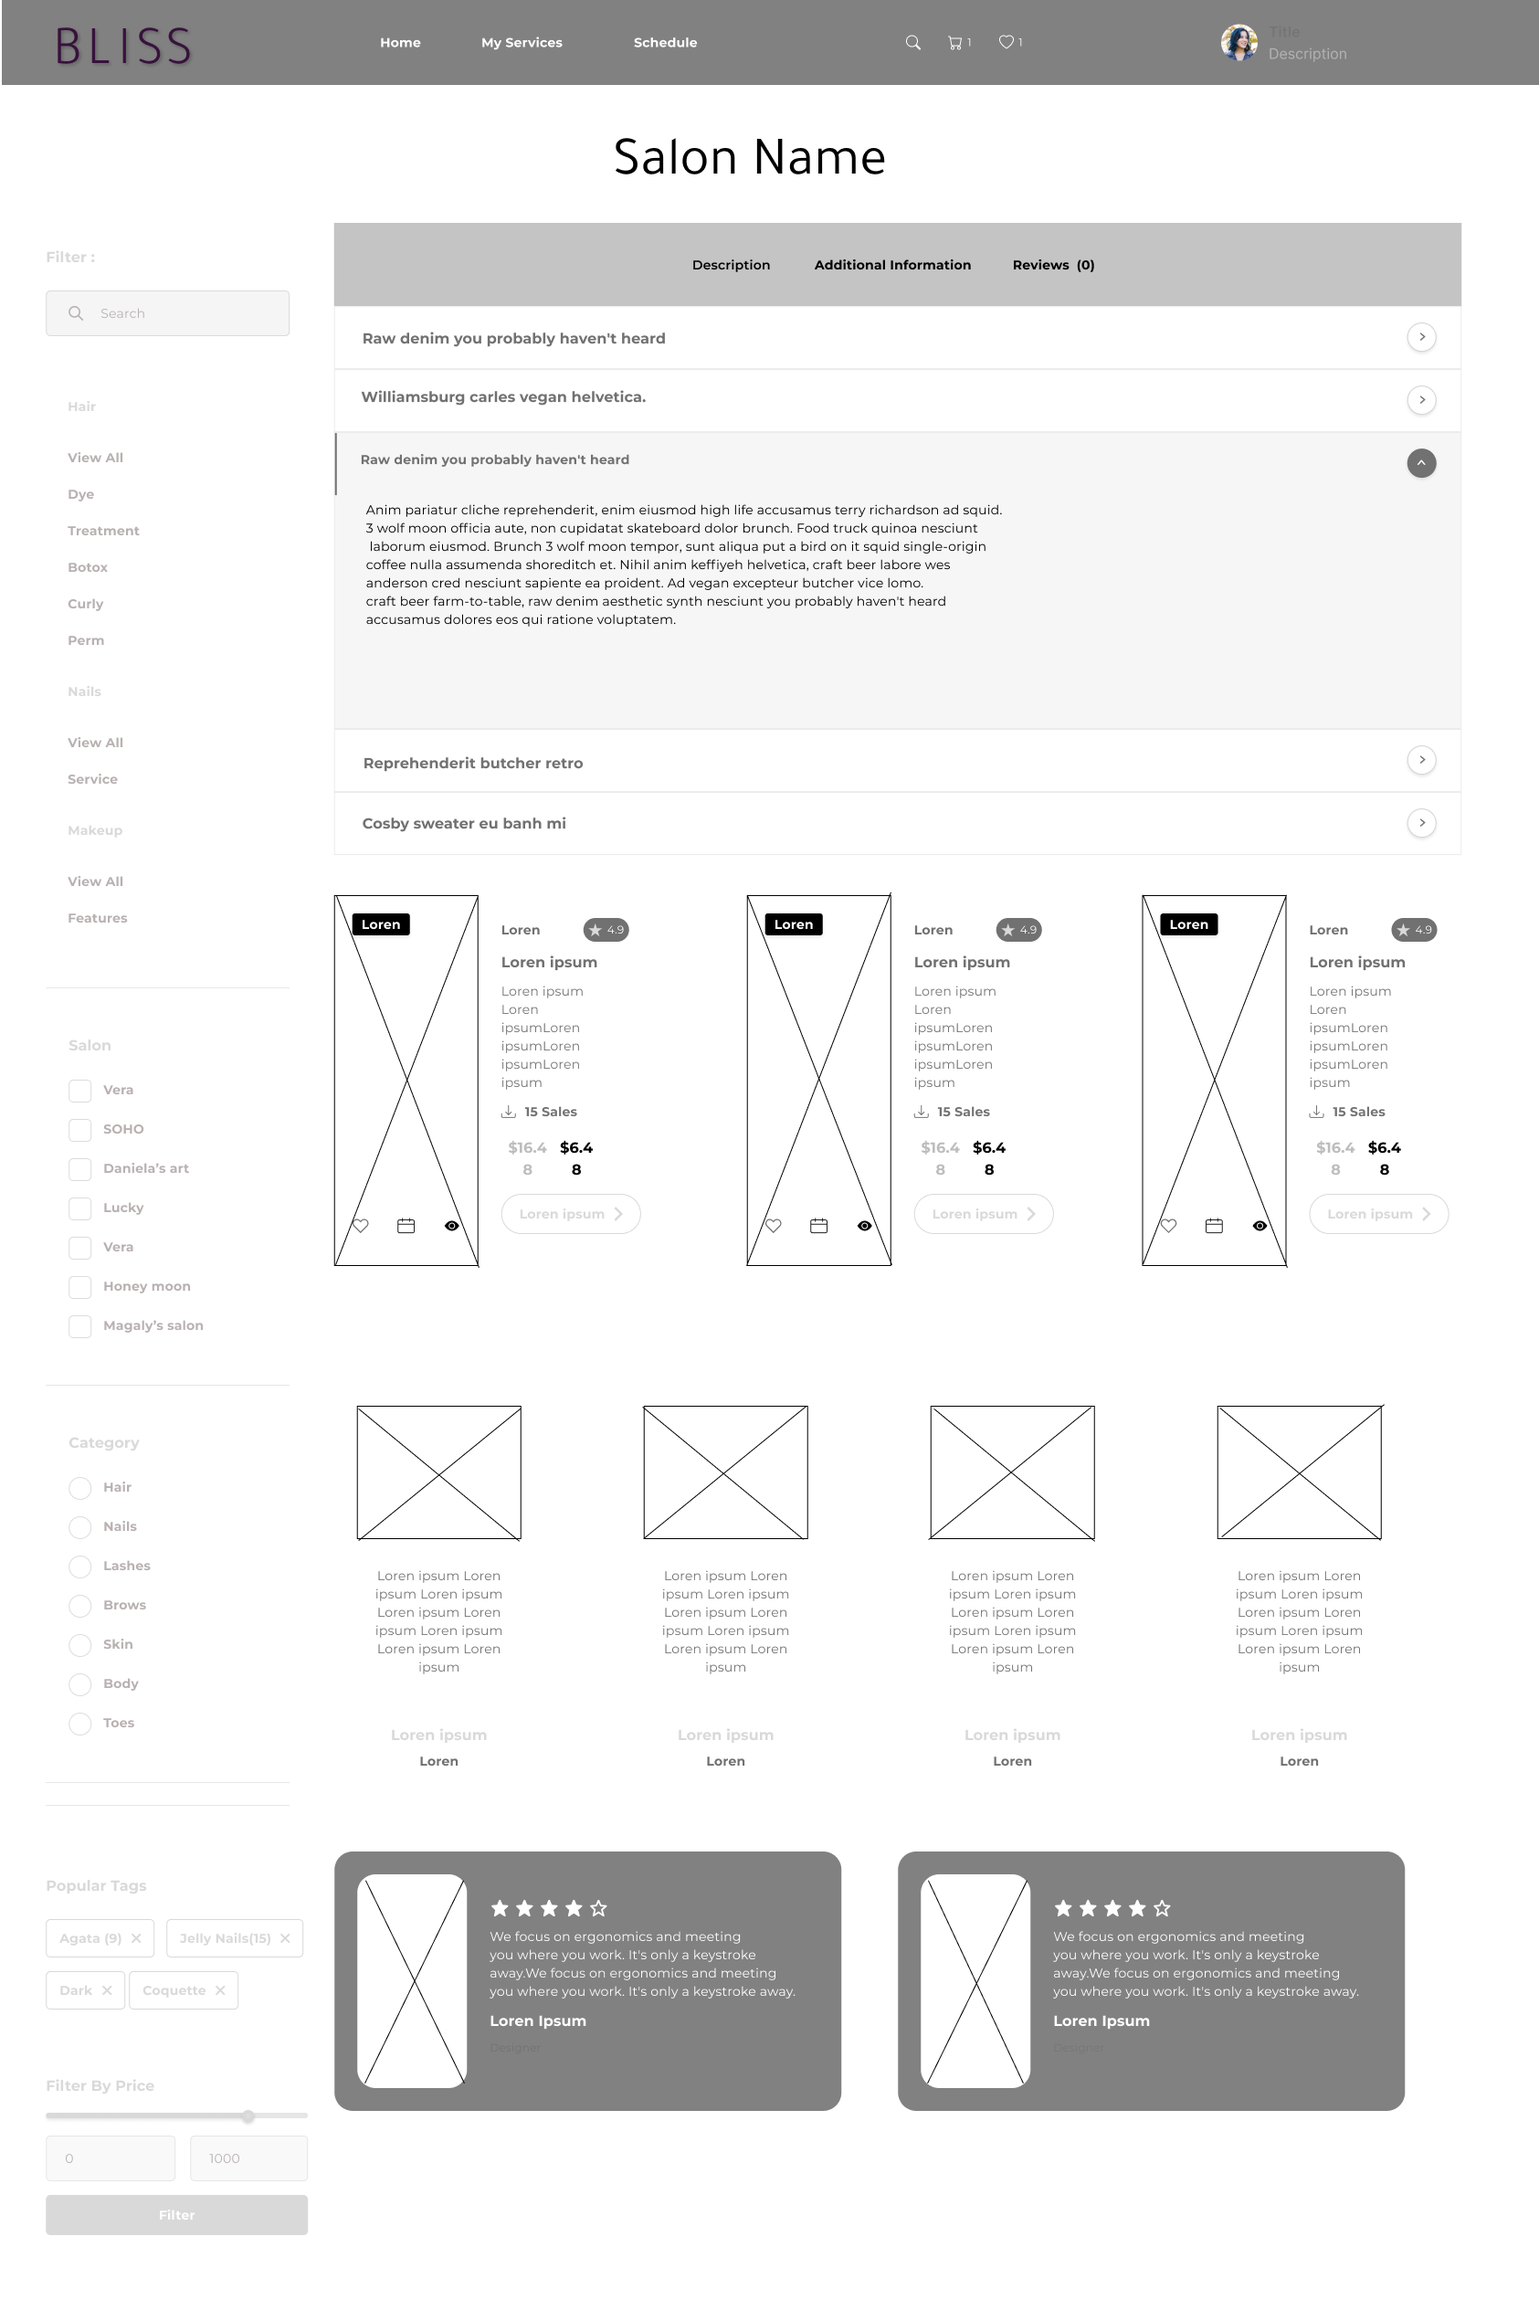
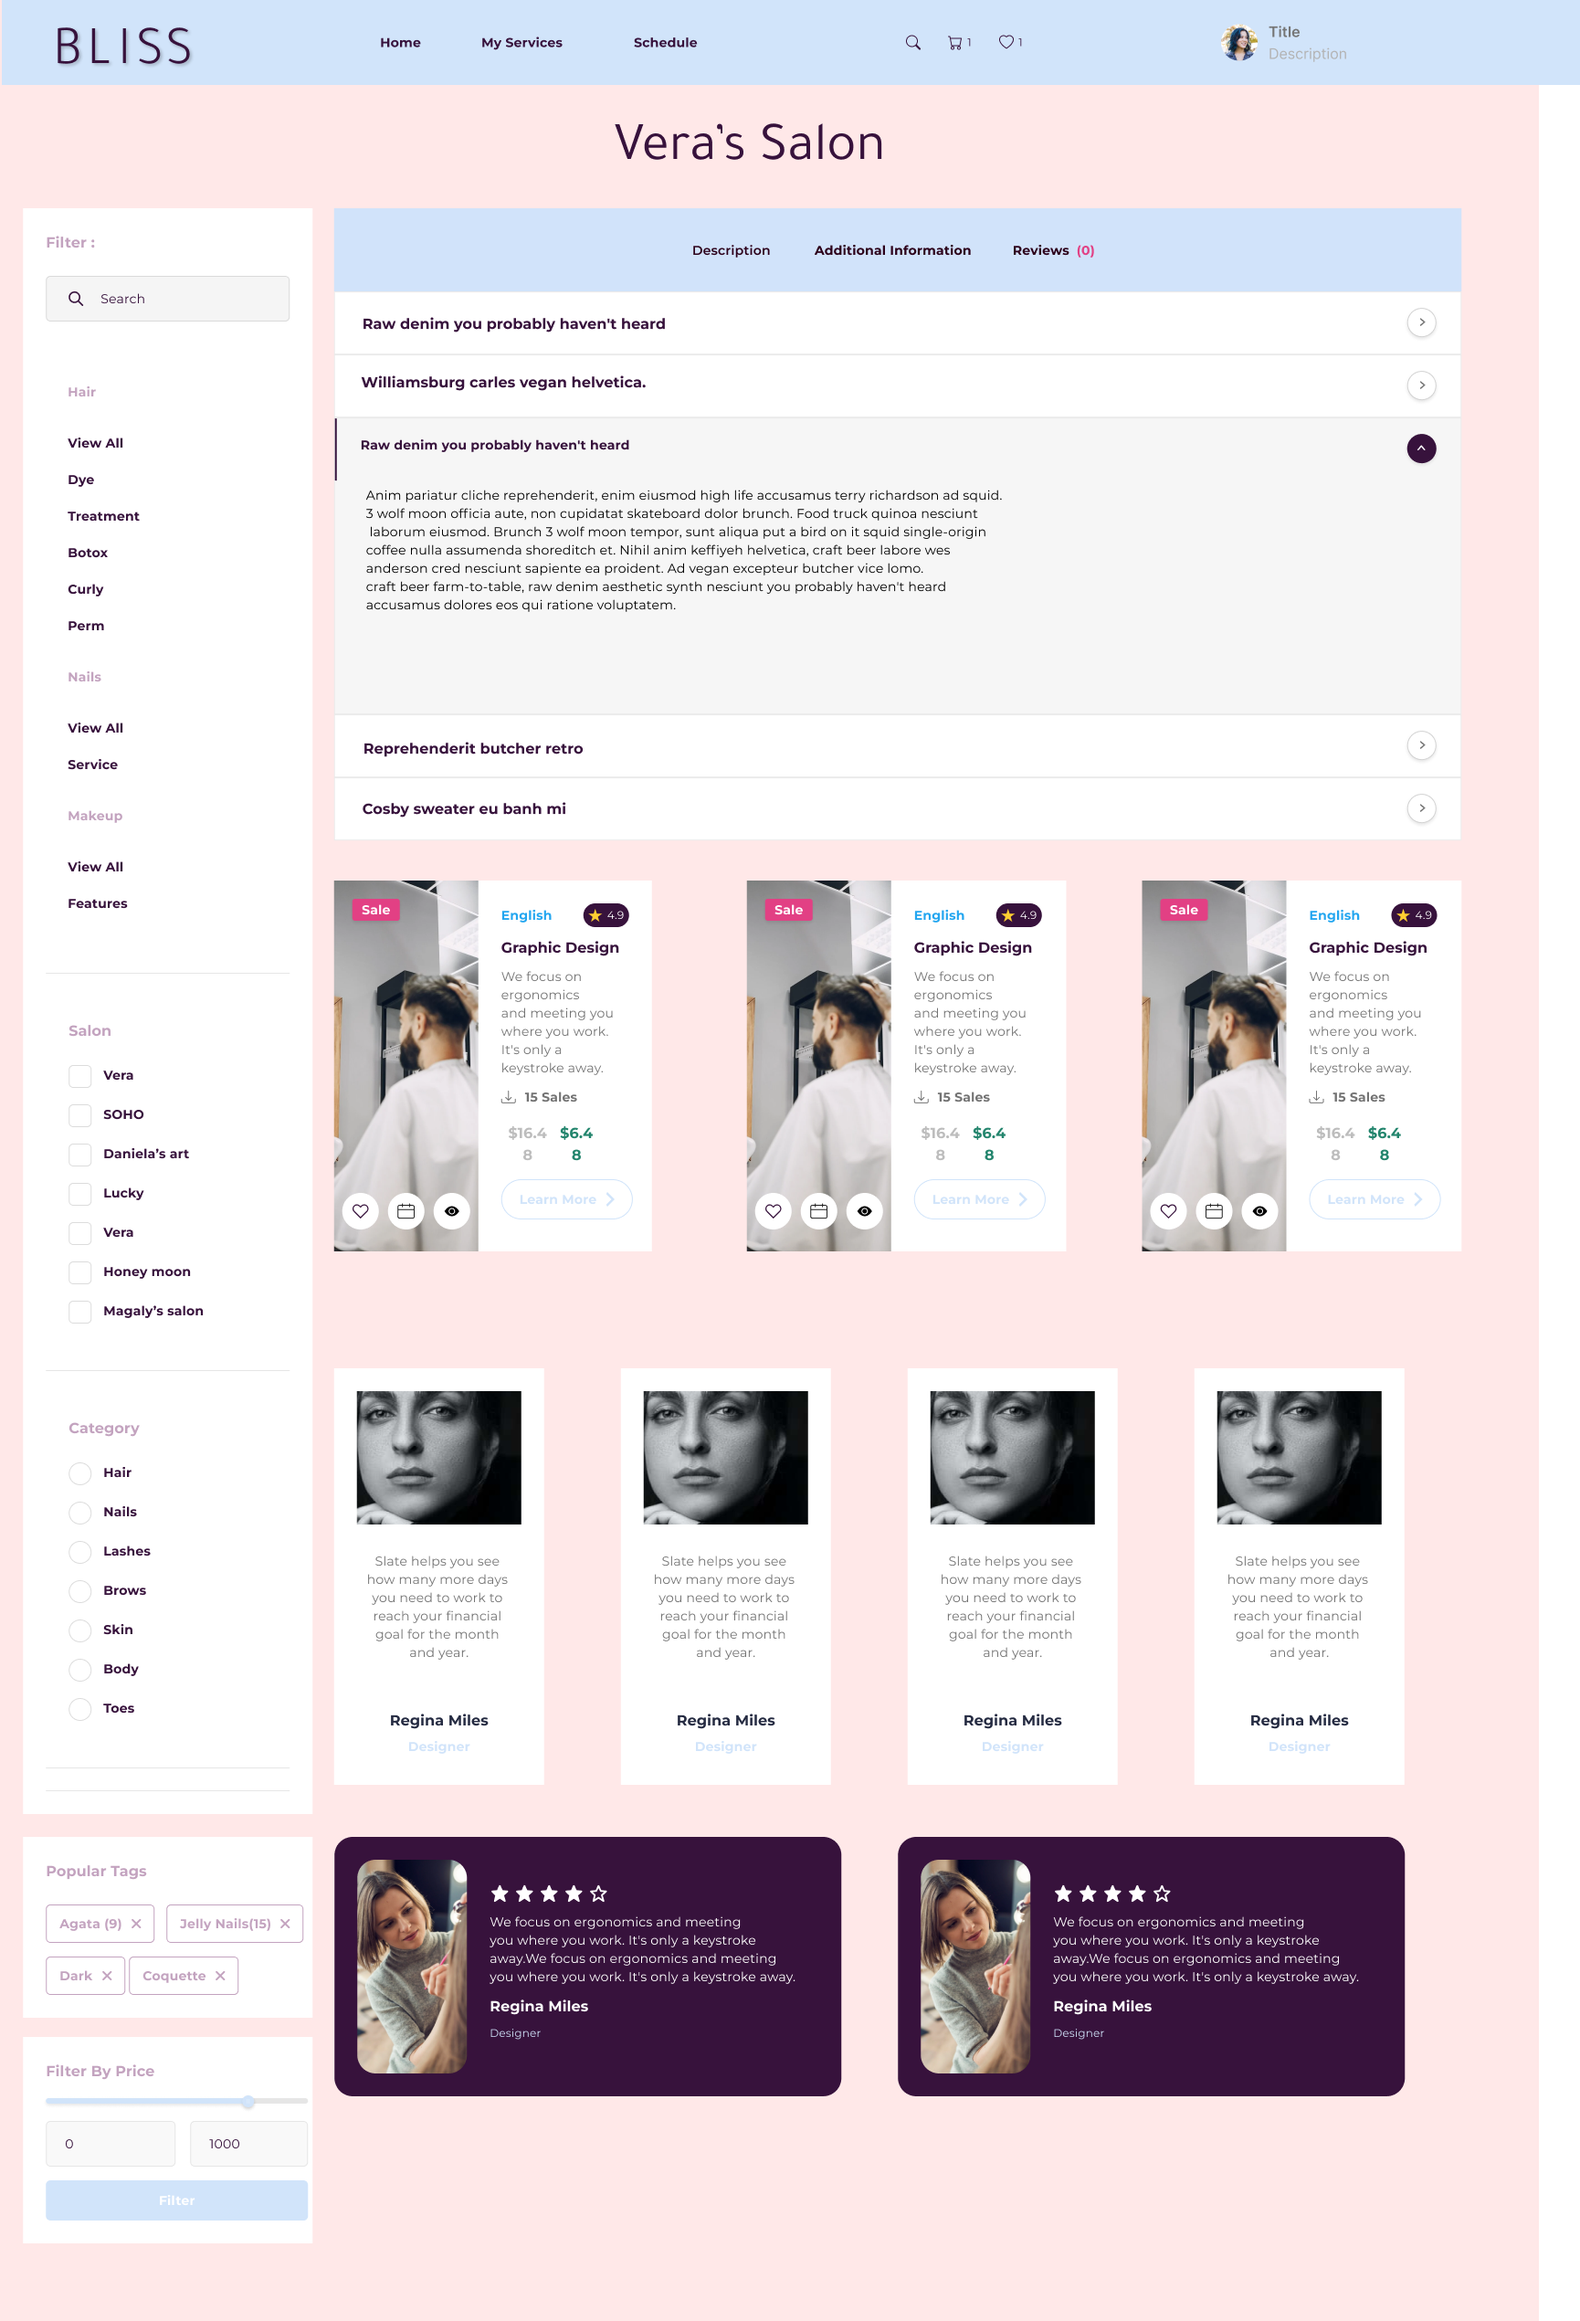
feat: adding mockups description and images

diff --git a/README.md b/README.md
@@ -755,6 +755,7 @@ A continuación mostraremos algunas imágenes de referencia del Style Guidelines
 <br>
 
 #### 4.1.2. Web Style Guidelines
+
 #### 4.1.3. Mobile Style Guidelines
 ### 4.2. Information Architecture
 #### 4.2.1. Organization Systems
@@ -829,10 +830,85 @@ El sistema de navegación incluye menús y botones claros que guían a los usuar
 
 ##### Enterprise Section
 
+
 #### 4.4.2. Web Applications Wireflow Diagrams
+
+<img src="resources\Prototype-flow (1).png"/>
+
 #### 4.4.3. Web Applications Mock-ups
+
+**Service client Login**
+
+<img src="resources\desktop-login-version.png"/>
+
+**Service client Register**
+
+<img src="resources\desktop-register-version.png"/>
+
+**Service client or visitor main page**
+
+<img src="resources\desktop-home.png"/>
+
+**Enterprise information**
+
+<img src="resources\desktop-Company.png"/>
+
+**Service detail**
+
+<img src="resources\desktop-Service Detail.png"/>
+
+**Book an appointment form**
+
+<img src="resources\desktop-Book Appointment.png"/>
+
+**Appointment saved notification**
+
+<img src="resources\container.png"/>
+
+**Service Client profile**
+
+<img src="resources\desktop-user profile-version.png"/>
+
+**Service Client Confirmed future appointments**
+
+<img src= "resources\desktop-Schedule-1.png"/>
+
+**Service Client service history**
+
+<img src= "resources\desktop-Myservices.png"/>
+
+**Enterprise login**
+
+<img src="resources\desktop-login-version-1.png"/>
+
+**Enterprise registration**
+
+<img src="resources\desktop-formCompanyProfile.png"/>
+
+**Enterprise Profile**
+
+<img src="resources\desktop-company Detail-version.png"/>
+
+**Enterprise list of services**
+
+<img src="resources\desktop-company-Services.png"/>
+
+**Enterprise schedule**
+<img src="resources\desktop-Company-Schedule.png"/>
+
+**Enterprise add Service**
+
+<img src="resources\desktop-formCompanyService.png"/>
+
+
 #### 4.4.2. Web Applications User Flow Diagrams
+
+
+
 ### 4.5. Web Applications Prototyping
+
+
+
 ### 4.6. Domain-Driven Software Architecture
 #### 4.6.1. Software Architecture Context Diagram
 
